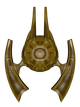
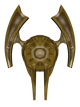
screen is drawn from top to bottom so rotated ship
- FIX: ship rotation
- abstracted Width and Height to W & H globals
- event -> e
- quit on escape
- input grab
- rotated ship

diff --git a/rotate.py b/rotate.py
@@ -1,34 +1,39 @@
 import sys
 import pygame
 import math
-from pygame.locals import QUIT, MOUSEBUTTONDOWN
+from pygame.locals import QUIT, MOUSEBUTTONDOWN, KEYDOWN, K_ESCAPE
+
+W = 800
+H = 600
 
 pygame.init()
 
-screen = pygame.display.set_mode((800, 600))
+screen = pygame.display.set_mode((W, H))
+
 stars = pygame.image.load('background.jpg').convert_alpha()
 cross = pygame.image.load('crosshair.png').convert_alpha()
 ship = pygame.image.load('spaceship.png').convert_alpha()
 clock = pygame.time.Clock()
+
 pygame.mouse.set_visible(False)
+pygame.event.set_grab(True)
 
 while True:
-    clock.tick(10)
-    for event in pygame.event.get():
-        if event.type == QUIT:
+    clock.tick(60)
+    for e in pygame.event.get():
+        if e.type == QUIT or (e.type == KEYDOWN and e.key == K_ESCAPE):
             pygame.quit()
             sys.exit()
-        elif event.type == MOUSEBUTTONDOWN and event.button == 1:
+        elif e.type == MOUSEBUTTONDOWN and e.button == 1:
             print('*pew pew!*')
-        elif event.type == MOUSEBUTTONDOWN and event.button == 3:
+        elif e.type == MOUSEBUTTONDOWN and e.button == 3:
             print('*swoosh!*')
 
     screen.blit(stars, (0, 0))
     pos = pygame.mouse.get_pos()
     screen.blit(cross, (pos))
-    angle = 180+math.atan2(pos[0]-400, pos[1]-300)*180/math.pi
-    print(round(angle))
-    rotimage = pygame.transform.rotate(ship, angle)
-    rect = rotimage.get_rect(center=(400, 300))
-    screen.blit(rotimage, rect)
+    angle = math.atan2(pos[0]-W/2, pos[1]-H/2)*180/math.pi
+    player = pygame.transform.rotate(ship, angle)
+    rect = player.get_rect(center=(W/2, H/2))
+    screen.blit(player, rect)
     pygame.display.update()
